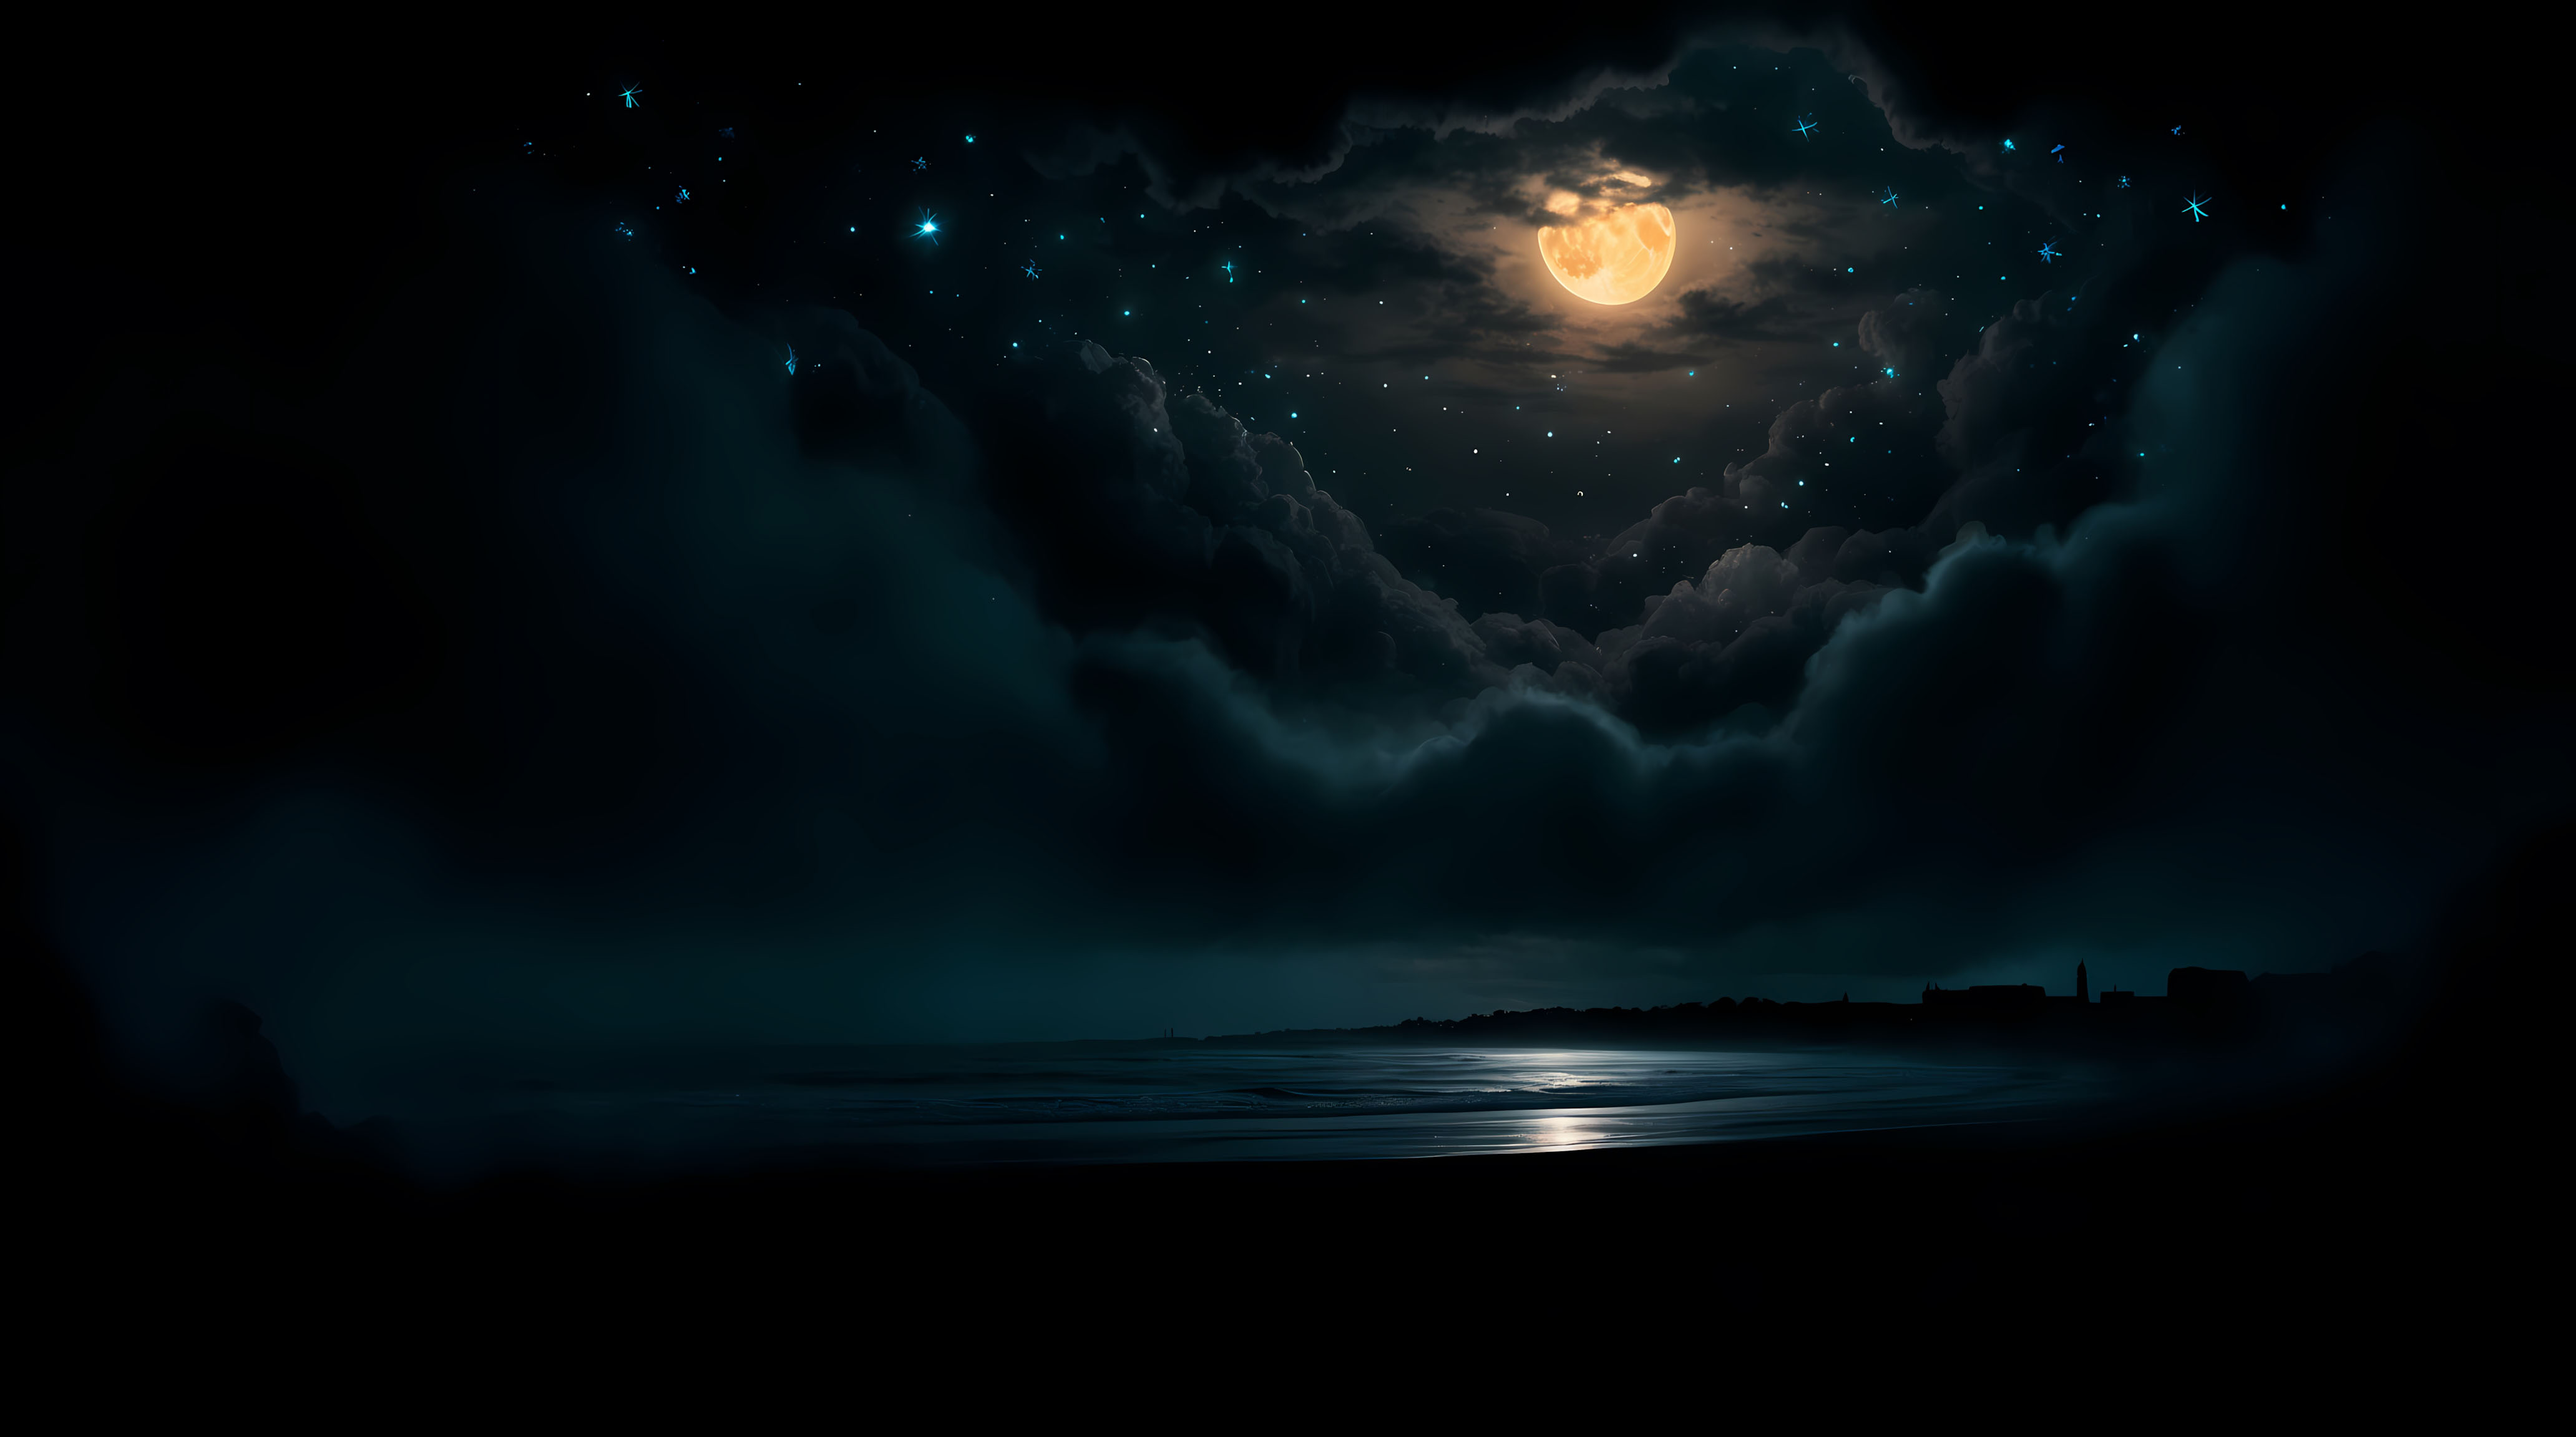
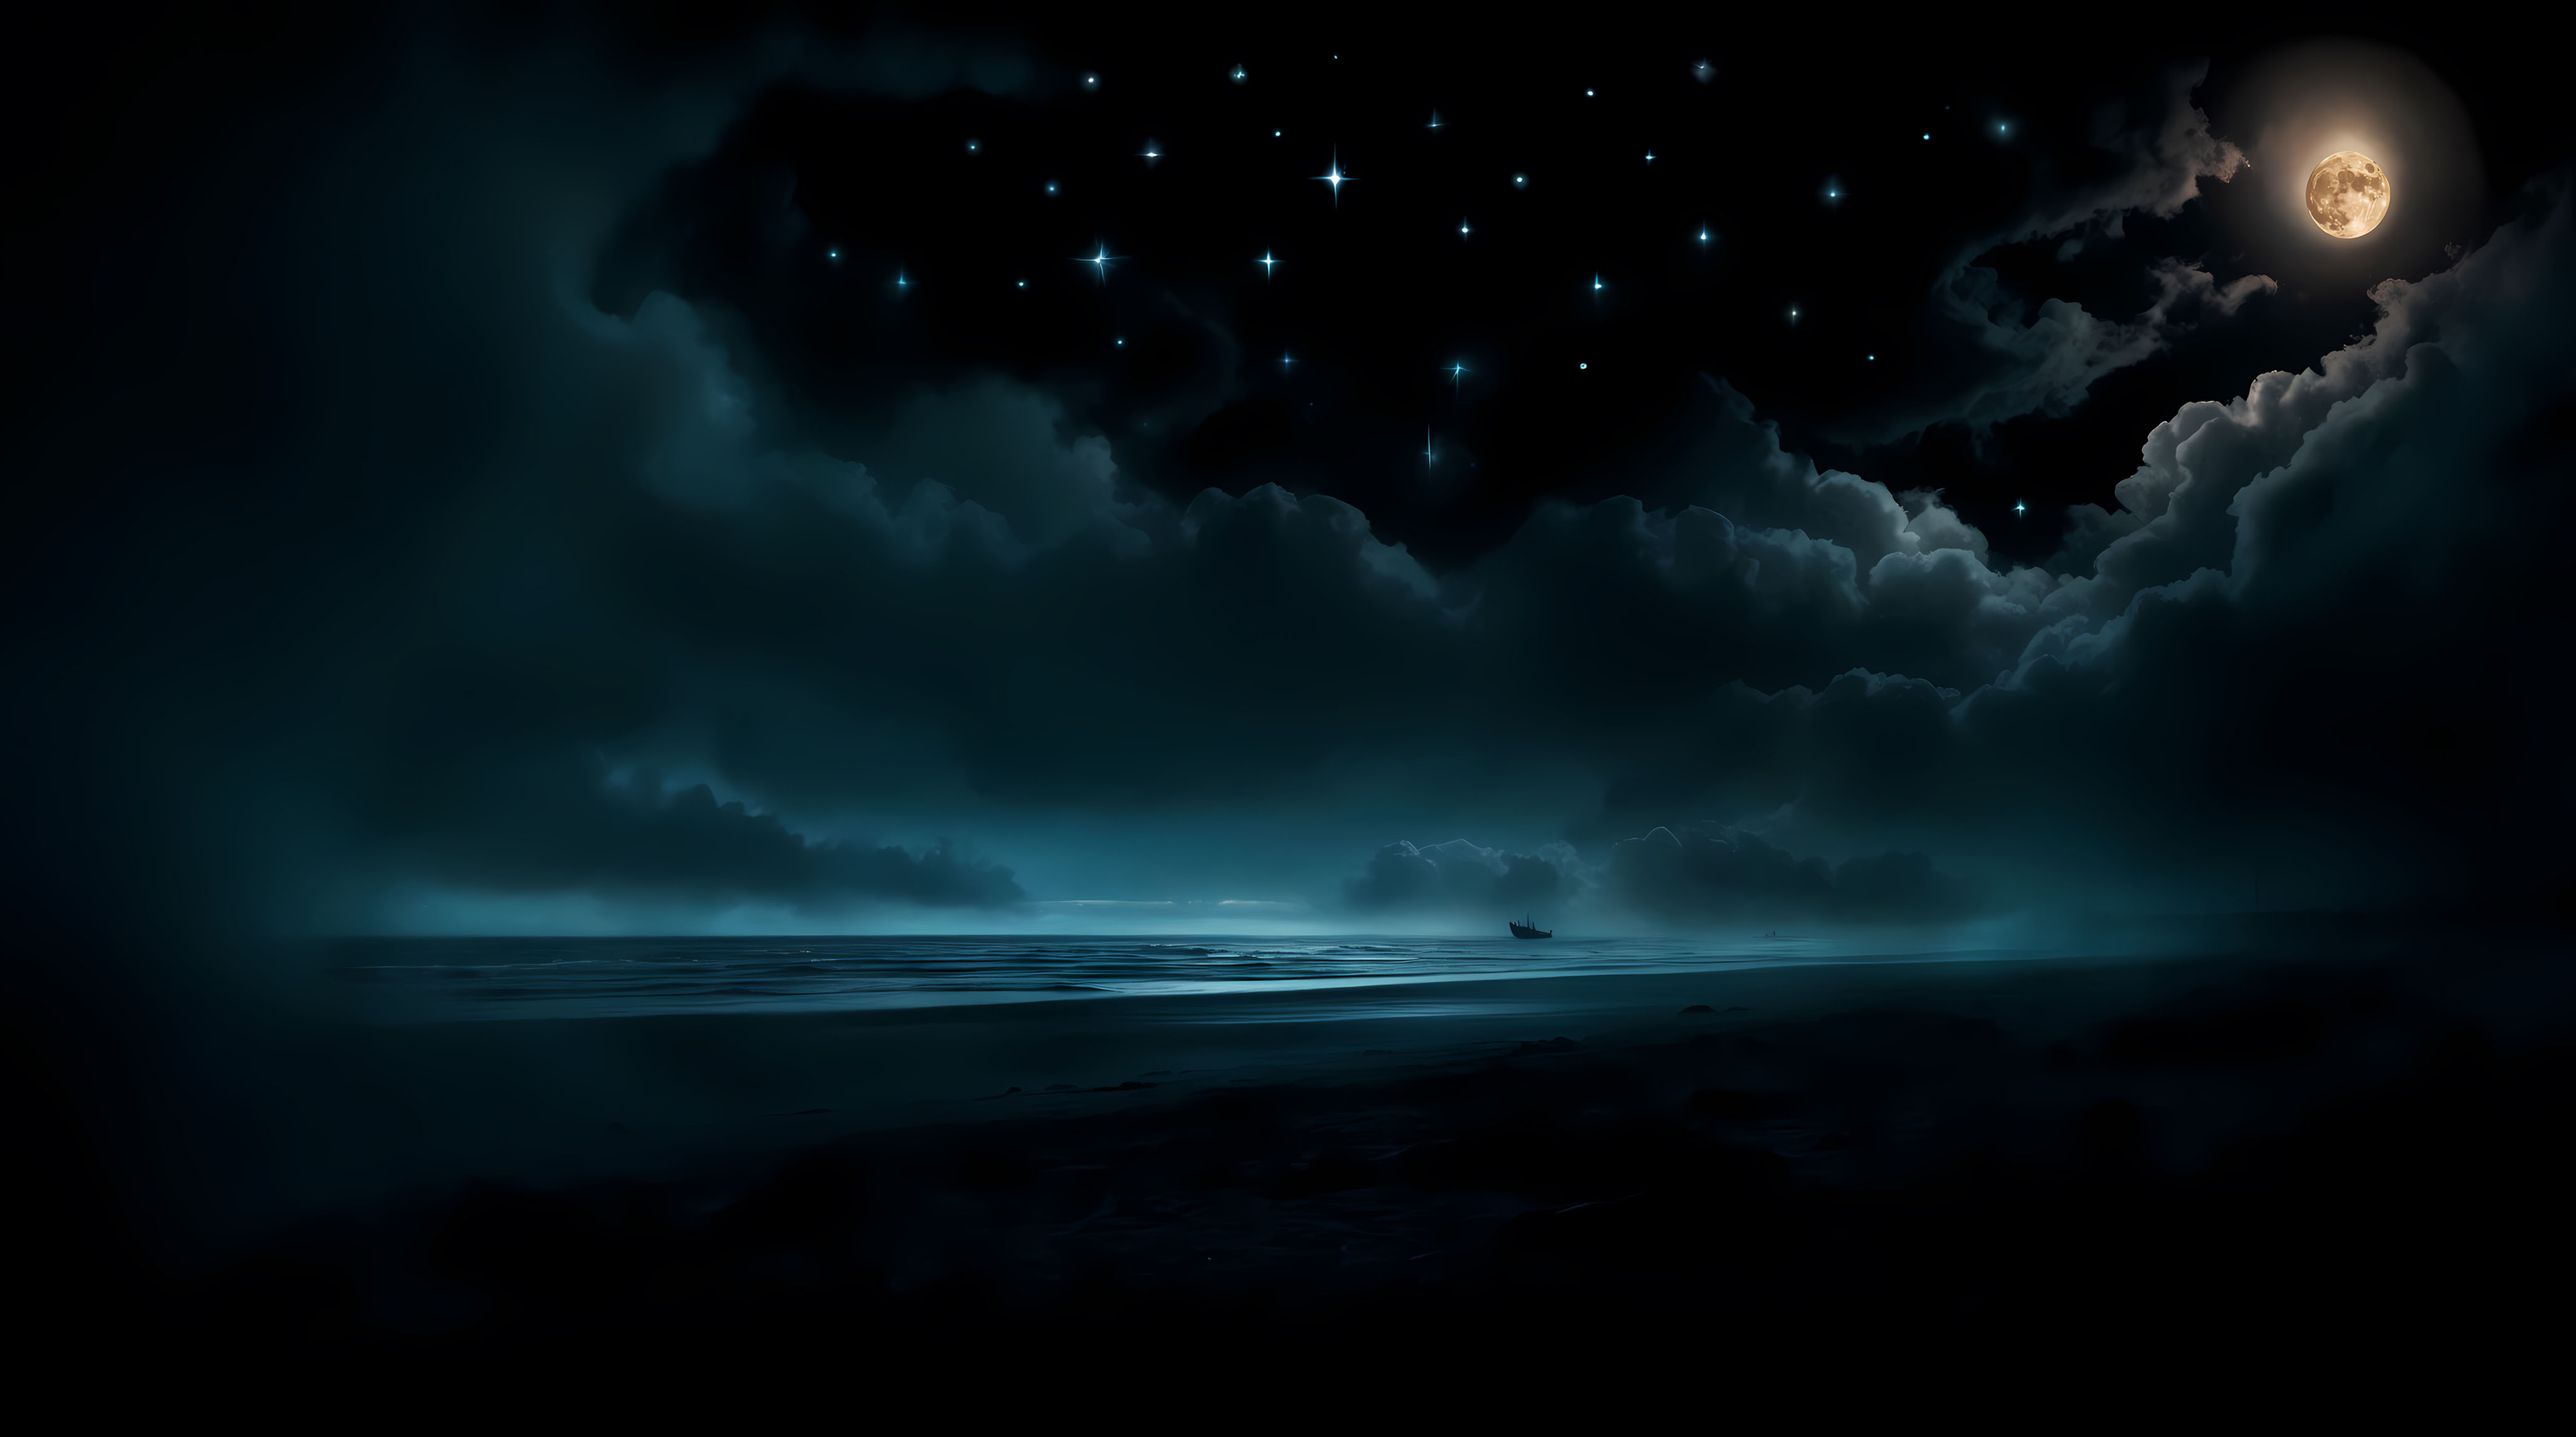
socorro parte 2

diff --git a/atividades/atividade002-landing-page/index.html b/atividades/atividade002-landing-page/index.html
@@ -13,64 +13,50 @@
       <div class="fonte">
         <h2>&#9885; Estrela do Viajante</h2>
       </div>
-      <nav>
-        <a href="#sobre">Sobre Nós</a>
-        <a href="#destinos">Destinos</a>
-        <a href="#contato">Contato</a>
-      </nav>
     </header>
 
+    <nav>
+      <a href="#lugares">Lugares no Brasil</a>
+      <a href="#exterior">Lugares no exterior</a>
+      <a href="#contato">Contato</a>
+    </nav>
+
     <picture>
-      <source
-        srcset="img\freepik__expand__84921.jpg"
-        media="max-width:600 px"
-      />
-      <source
-        srcset="img\freepik__expand__84921.jpg"
-        media="max-width:900 px"
-      />
-      <source
-        srcset="img\freepik__expand__84921.jpg"
-        media="max-width:1100 px"
-      />
-      <img src="img\freepik__expand__84922.jpg" />
+      <source media="(max-width: 1000px)" srcset="img\2151700780 (1).jpg" />
+      <source media="(min-width: 1500px)" srcset="img/2151700780 (2).jpg" />
+      <source media="(min-width: 2000px)" srcset="img/2151700780.jpg" />
+      <img src="img/digital-art-dark-cosmic-night-sky.jpg" alt="" />
     </picture>
 
     <main>
       <hr />
-      <div class="fonte">
-        <section id="sobre">
-          <article>
-            <h2>&#10025; Quem Somos</h2>
-            <p>
-              Somos uma agência dedicada a lhe informar sobre os melhores pontos
-              de viagem,<br> com base em avaliações em site Populares.<br>
-            </p>
-            
-          </article>
-        </section>
 
-        <section id="destinos">
-          <article>
-            <h2>&#10025; Destinos Populares</h2>
-            <p>
-              Explore lugares incríveis com base em nossas sugestões
-            </p>
-            <p></p>
-          </article>
-        </section>
+      <section id="lugares">
+        <h2>&#10025; Melhores lugares no Brasil</h2>
 
-        <section id="contato">
-          <article>
-            <h2>&#10025; Entre em Contato</h2>
-            <p>
-              Tem alguma dúvida? Fale conosco e vamos te ajudar a esclarecer
-              <br>algumas duvidas viagem dos seus sonhos.
-            </p>
-            <p>Telefone: (32) 9999 9999<br>Email: estrelaviajante@gmail.com</p>
-          </article>
-        </section>
-      </div>
+        <article>
+          <figure>
+            <img src="" alt="sadas" />
+          </figure>
+
+          <p>abdaiiqaif</p>
+        </article>
+        <a class="voltar-inicio" href="#">Voltar ao topo</a>
+      </section>
+
+      <hr />
+      <section id="exterior">
+        <h2>&#10025; Melhores lugares no exterior</h2>
+
+        <article>
+          <figure>
+            <img src="" alt="sadas" />
+          </figure>
+
+          <p>abdaiiqaif</p>
+        </article>
+        <a class="voltar-inicio" href="#">Voltar ao topo</a>
+      </section>
 
       <hr />
     </main>

diff --git a/atividades/atividade002-landing-page/css/estilo.css b/atividades/atividade002-landing-page/css/estilo.css
@@ -1,53 +1,52 @@
+* {
+    margin: 0;
+    padding: 0;
+    font-family: 'Times New Roman', Times, serif;
+}
+
+header {
+    background-color: #000000;
+    padding: 20px;
+}
+
+nav {
+    background-color: #000000;
+    color: #ffffff;
+    font-size: 1.2em;
+    display: flex;
+    justify-content: center;
+}
+
+nav a {
+    color: #000000;
+    margin: 0 30px;
+    padding: 0px 30px;
+    border-radius: 5px;
+    background-color:#ffffff;
+}
+
+nav a:hover {
+    background-color: #313131;
+    color: #ffffff;
+}
+
+picture img {
+    height: 90%;
+    width: 100%;
+}
+
+
 body {
-    font-family: "Arial", sans-serif;
     color: #ffffff;
     background-color: #000000;
     margin: 0;
     padding: 0;
 }
 
-header {
-    background-color: #000000;
-    color: white;
-    text-align: left;
-    padding: 20px;
-}
-
-picture {
-    display: flex;
-    border-radius: 20px;
-    justify-content: center;
-}
-.fonte h3 {
-    font-family: 'Times New Roman', Times, serif;
-}
-
-nav {
-    background-color: #000000;
-    color: #ffffff;
-    padding: 10px;
-    display: flex;
-    justify-content: center;
-
-}
-
-nav a {
-    color: #000000;
-    margin: 0 15px;
-    padding: 5px 15px;
-    text-decoration: none;
-    font-size: 16px;
-    border-radius: 5px;
-    display: inline-block;
-    background-color:#ffffff;
-}
-
-nav a:hover {
-    background-color: #000000;
-}
-
 main {
+    justify-content: center;
     padding: 20px;
+    margin: 20px;
 }
 
 section {
@@ -57,14 +56,40 @@ section {
     justify-content: center;
     border-radius: 10px;
 }
+section h2 {
+    padding: 10px;
+    margin: 10px;
+    justify-content: center;
+}
+
+article {
+    display: flex;
+    justify-content: center;
+    margin: 30px;
+    padding: 30px;
+}
+
+article p {
+    color: #ffffff;
+    background-color:#313131;
+}
 
 figure {
     display: flex;
-    border-radius: 20px;
-    justify-content: right;
-
+    padding: 50px;
+}
+section .voltar-inicio {
+    color: #000000;
+    background-color: #ffffff;
+    border-radius: 5px;
+    margin: 0 30px;
+    padding: 0px 30px;
 }
 
+.voltar-inicio:hover {
+    background-color: #313131;
+    color: #ffffff;
+}
 footer {
     background-color: #000000;
     color: #ffffff;
